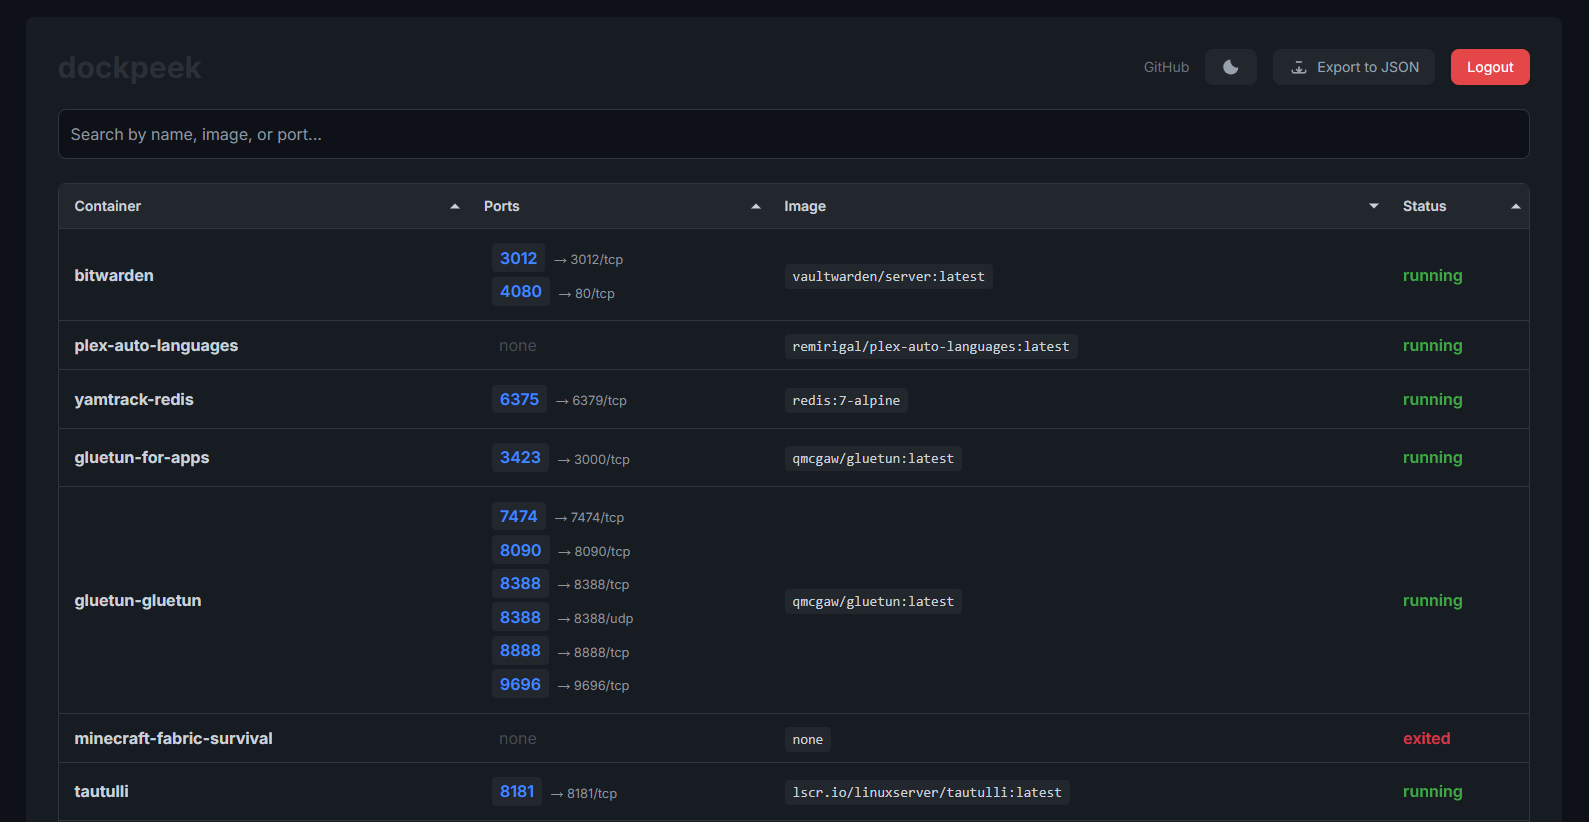
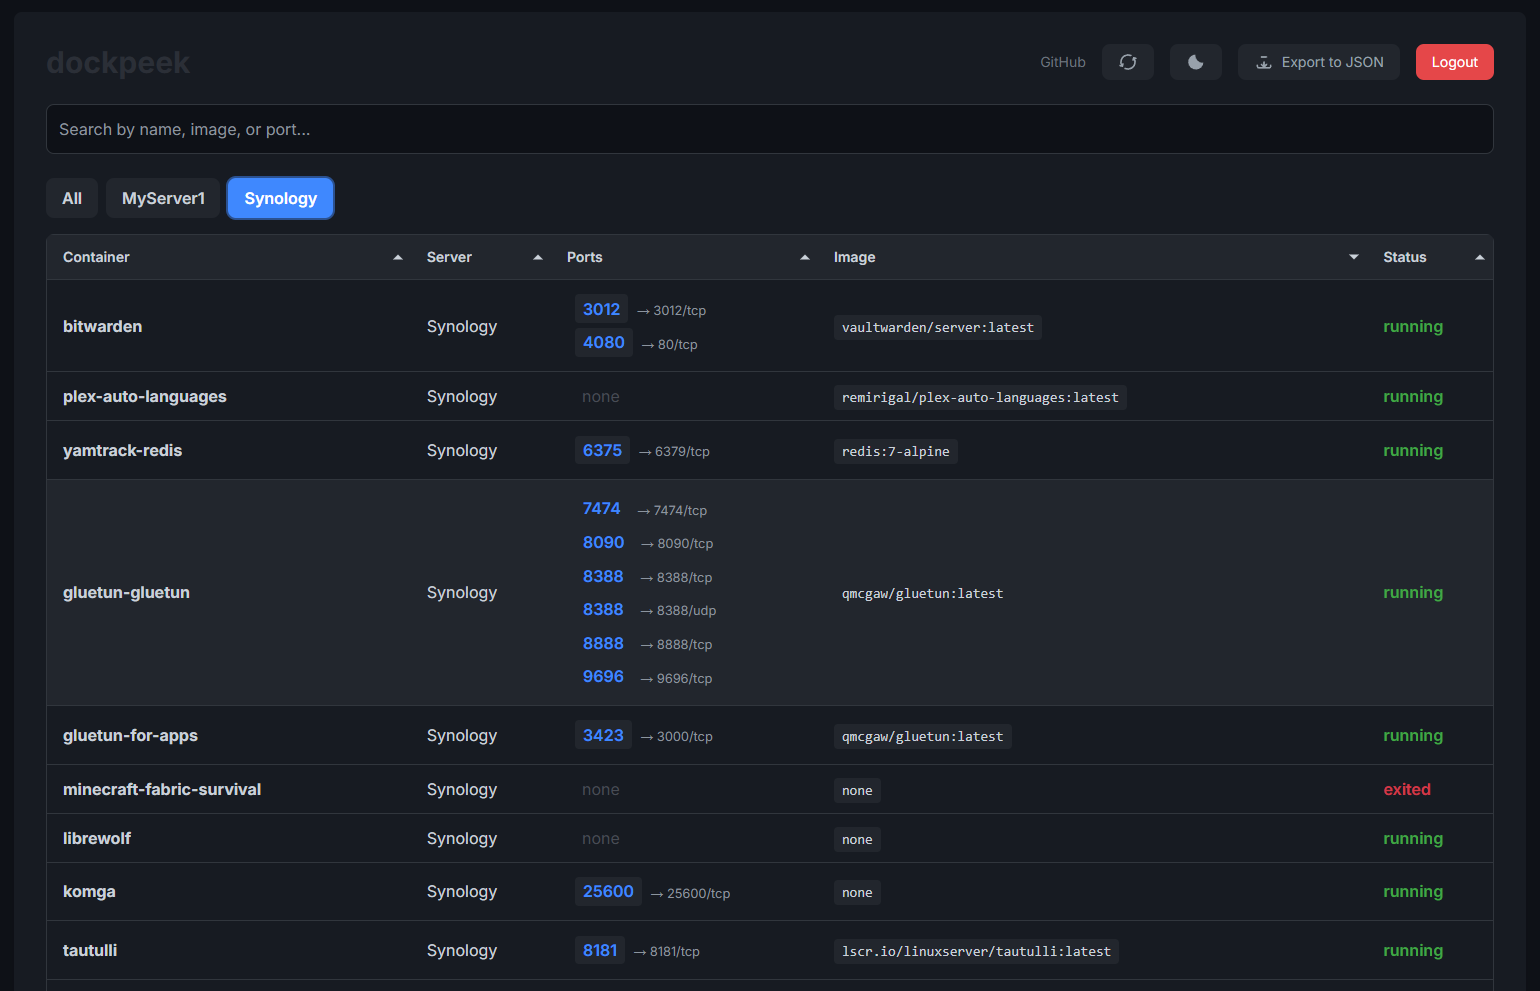
added docker-composes new README remove search by saerver and container ports

diff --git a/templates/index.html b/templates/index.html
@@ -460,7 +460,7 @@
     </div>
 
     <div class="mb-6">
-      <input type="text" id="search-input" placeholder="Search by name, image, port, or server..."
+      <input type="text" id="search-input" placeholder="Search by name, image, or port..."
         class="w-full p-3 border border-gray-300 rounded-lg focus:outline-none focus:ring-2 focus:ring-blue-500 focus:border-transparent" />
     </div>
 
@@ -681,8 +681,7 @@
             workingData = workingData.filter(c =>
               c.name.toLowerCase().includes(searchTerm) ||
               c.image.toLowerCase().includes(searchTerm) ||
-              c.server.toLowerCase().includes(searchTerm) ||
-              c.ports.some(p => p.host_port.includes(searchTerm) || p.container_port.includes(searchTerm))
+              c.ports.some(p => p.host_port.includes(searchTerm))
             );
         }
 

diff --git a/README.md b/README.md
@@ -1,21 +1,33 @@
 <img src="static/logo_2.svg" alt="dockpeek logo" width="60" height="60" />
 
-# dockpeek
+# Dockpeek — Docker Port Mapping Dashboard
 
-**dockpeek** is a lightweight, dashboard for monitoring Docker containers. With an simple UI and built-in authentication, it allows users to inspect container statuses and port mappings securely.
+**DockPeek** is a lightweight dashboard designed to give you a quick and clear overview of your Docker container port mappings. It supports multiple Docker sockets and lets you instantly open exposed host ports in your browser — perfect for managing and accessing your containerized web applications across different environments.
 
----
+## Key Features
 
-## Features
+- **Port Mapping**  
+  View all host-to-container port mappings with clickable links to immediately access web apps.
 
-* **Port Mapping Visibility** — Maps host → container ports with clickable links
-* **Container Overview** — Instantly see all running/stopped containers
-* **Security-Oriented Design** — Supports `socket-proxy` for read-only Docker access
-* **Export Data** — Easily export container information in JSON format
-* **Login Authentication** — Simple username/password access
-* **Dark Mode Support** — Theme toggle with persistence
+- **Multi Docker Sockets Support**  
+  Connect to and switch between multiple Docker sockets from a single interface.
 
----
+- **Secure by Design**  
+  Built-in authentication and full support for `socket-proxy` to grant secure, read-only access to the Docker API.
+
+- **Effortless Search**  
+  Quickly find containers by name or filter by an external port number.
+
+- **Data Export**  
+  Export container and port information to a JSON file
+
+- **User-Friendly UI**  
+  A clean interface with a persistent dark mode for comfortable viewing.
+
+
+## Why Use Dockpeek?
+
+In complex environments with multiple Docker hosts or numerous containers, keeping track of which application is running on which port can be a challenge. **Dockpeek** solves this by providing a centralized, secure, and user-friendly interface to view all port mappings at a glance.
 
 ## 📸 Screenshots
 
@@ -23,15 +35,27 @@
   <img src="screenshot.png" alt="Night mode" width="800" />
 </p>
 
----
-
 ## Getting Started
 
-### Deployment Options
+### Option 1: Direct Access
+```yaml
+services:
+  dockpeek:
+    image: ghcr.io/dockpeek/dockpeek:latest
+    container_name: dockpeek
+    environment:
+      - SECRET_KEY=my_secret_key   # Set secret key
+      - USERNAME=admin             # Change default username
+      - PASSWORD=admin             # Change default password
+    ports:
+      - "3420:8000"
+    volumes:
+      - /var/run/docker.sock:/var/run/docker.sock
+    restart: unless-stopped
+```
 
-> **Recommended:** Use `socket-proxy` for secure access to Docker API.
+### Option 2 : Through `socket-proxy`
 
-### 🔧 Option 1: Secure Setup (with `socket-proxy`)
 
 ```yaml
 services:
@@ -68,43 +92,44 @@ services:
     restart: unless-stopped
 ```
 
-### Option 2: Direct Access (without proxy)
-
-> **⚠ Not Recommended:** Grants full access to Docker Socket.
-
+### Additional Docker Sockets
 ```yaml
-services:
-  dockpeek:
-    image: ghcr.io/dockpeek/dockpeek:latest
-    container_name: dockpeek
     environment:
       - SECRET_KEY=my_secret_key   # Set secret key
       - USERNAME=admin             # Change default username
       - PASSWORD=admin             # Change default password
-    ports:
-      - "3420:8000"
-    volumes:
-      - /var/run/docker.sock:/var/run/docker.sock
-    restart: unless-stopped
+
+      # Optional: Configure additional Docker hosts by adjusting the following.
+      # Each host requires a matching set of DOCKER_HOST_N_URL, DOCKER_HOST_N_NAME, and optionally DOCKER_HOST_N_PUBLIC_HOSTNAME.
+      
+      # Docker Host 1
+      - DOCKER_HOST_1_URL=unix:///var/run/docker.sock    # Required for DOCKER_HOST_N: URL of the additional Docker host.
+      - DOCKER_HOST_1_NAME=MyServer1                     # Required for DOCKER_HOST_N: Display name shown in the UI.
+      - DOCKER_HOST_1_PUBLIC_HOSTNAME=                   # Optional: Public hostname or IP for clickable links. If empty, inferred from the URL.
+
+      # Docker Host 1
+      - DOCKER_HOST_2_URL=tcp://192.168.1.168:2375       # Required for DOCKER_HOST_N: URL of the additional Docker proxy.
+      - DOCKER_HOST_2_NAME=Synology                      # Required for DOCKER_HOST_N: Display name shown in the UI.
+      - DOCKER_HOST_2_PUBLIC_HOSTNAME=NAS                # Optional: Public hostname or IP for clickable links. If empty, inferred from the URL. 
+                                                         # Example: Use device name like 'NAS' for easier access via Tailscale.                         
+
+      # Add more Docker hosts as needed, incrementing N accordingly.
+
 ```
-```yaml
+   `unix:///var/run/docker.sock`   Requires mounting the Docker socket `volumes: /var/run/docker.sock:/var/run/docker.sock`
 
-environment:
-  - SECRET_KEY=your_very_secret_key_here # **Required:** Change this to a unique, strong key for session management.
-  - USERNAME=admin                       # **Required:** Change the default username for login.
-  - PASSWORD=admin                       # **Required:** Change the default password for the specified username.
-  - DOCKER_HOST=tcp://socket-proxy:2375  # **Optional:** Specifies the primary Docker daemon endpoint. If not set, the application attempts to connect to a local Docker socket.
 
-  # **Optional:** Configure additional Docker hosts by uncommenting and modifying the following lines.
-  # Each host requires a DOCKER_HOST_N_URL and DOCKER_HOST_N_NAME, where 'N' is an incrementing number.
-  # Docker 1
-  - DOCKER_HOST_1_URL=tcp://192.168.1.168:2375 # **Required for DOCKER_HOST_N_**: URL of the first additional Docker host.
-  - DOCKER_HOST_1_NAME=Synology             # **Required for DOCKER_HOST_N_**: Display name for the first additional host in the UI.
-  - DOCKER_HOST_1_PUBLIC_HOSTNAME=          # **Optional:** Public hostname/IP for the first host. Used for generating clickable links to exposed container ports. If empty, the app will try to infer from DOCKER_HOST_N_URL.
-  # Docker 2
-  - DOCKER_HOST_2_URL=unix:///var/run/docker.sock # **Required for DOCKER_HOST_N_**: URL of the second additional Docker host.
-  - DOCKER_HOST_2_NAME=StagingEnvironment       # **Required for DOCKER_HOST_N_**: Display name for the second additional host in the UI.
-  - DOCKER_HOST_2_PUBLIC_HOSTNAME=pisi          # **Optional:** Public hostname/IP for the second host. Used for generating clickable links to exposed container ports. If empty, the app will try to infer from DOCKER_HOST_N_URL.
-  # Docker 3 ... etc.
+  ## Environment
 
-  ```
+DockPeek is configured entirely through environment variables. These allow flexible deployment across varying host setups and security requirements.
+| Variable                        | Required | Description                                                                                                              |
+| ------------------------------- | -------- | ------------------------------------------------------------------------------------------------------------------------ |
+| `SECRET_KEY`                    | Yes      | A strong, unique secret used to secure session data and cookie encryption.                                               |
+| `USERNAME`                      | Yes      | Username used to authenticate into the DockPeek dashboard.                                                               |
+| `PASSWORD`                      | Yes      | Corresponding password for the user account.                                                                             |
+| `DOCKER_HOST`                   | No       | URL of the primary Docker socket (e.g., `tcp://socket-proxy:2375`). Defaults to local socket if omitted.                 |
+| `DOCKER_HOST_N_URL`             | No       | Defines an additional Docker host (e.g., `tcp://192.168.1.10:2375`). Replace `N` with a number (`1`, `2`, `3`, ...).     |
+| `DOCKER_HOST_N_NAME`            | No       | Friendly name for display in the UI, associated with the corresponding `DOCKER_HOST_N_URL`.                              |
+| `DOCKER_HOST_N_PUBLIC_HOSTNAME` | No       | Optional public hostname or IP used for generating clickable container links. If unset, it's inferred from the host URL. |
+
+> **Note:** All multi-host variables (`DOCKER_HOST_N_*`) must use matching `N` indices for URL, name, and hostname entries.
